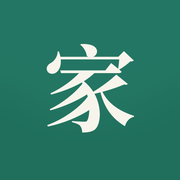
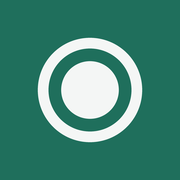
圖示改成厚硬幣
主畫面唔再用紙張或者字，改成深綠底、奶油色硬幣。

Changed region(s): [[0.1944, 0.1944, 0.8056, 0.8056]]

diff --git a/sw.js b/sw.js
@@ -1,4 +1,4 @@
-const C='hhledger-v6';
+const C='hhledger-v7';
 const FILES=['./','index.html','style.css','app.js','manifest.webmanifest','data/seed.json','icons/icon-192.png','icons/icon-512.png','icons/icon-180.png'];
 self.addEventListener('install',e=>{e.waitUntil(caches.open(C).then(c=>c.addAll(FILES)));self.skipWaiting()});
 self.addEventListener('activate',e=>{e.waitUntil(caches.keys().then(k=>Promise.all(k.filter(x=>x!==C).map(x=>caches.delete(x)))));self.clients.claim()});
